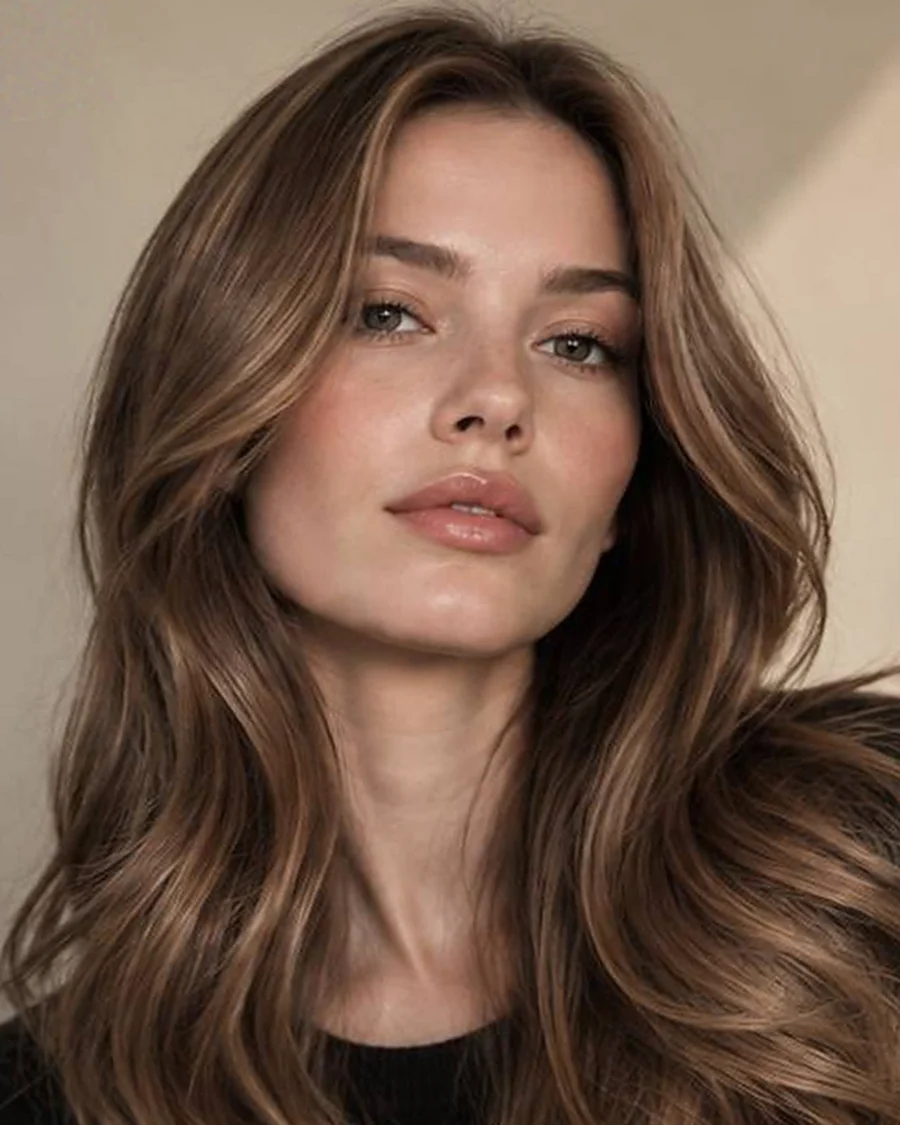
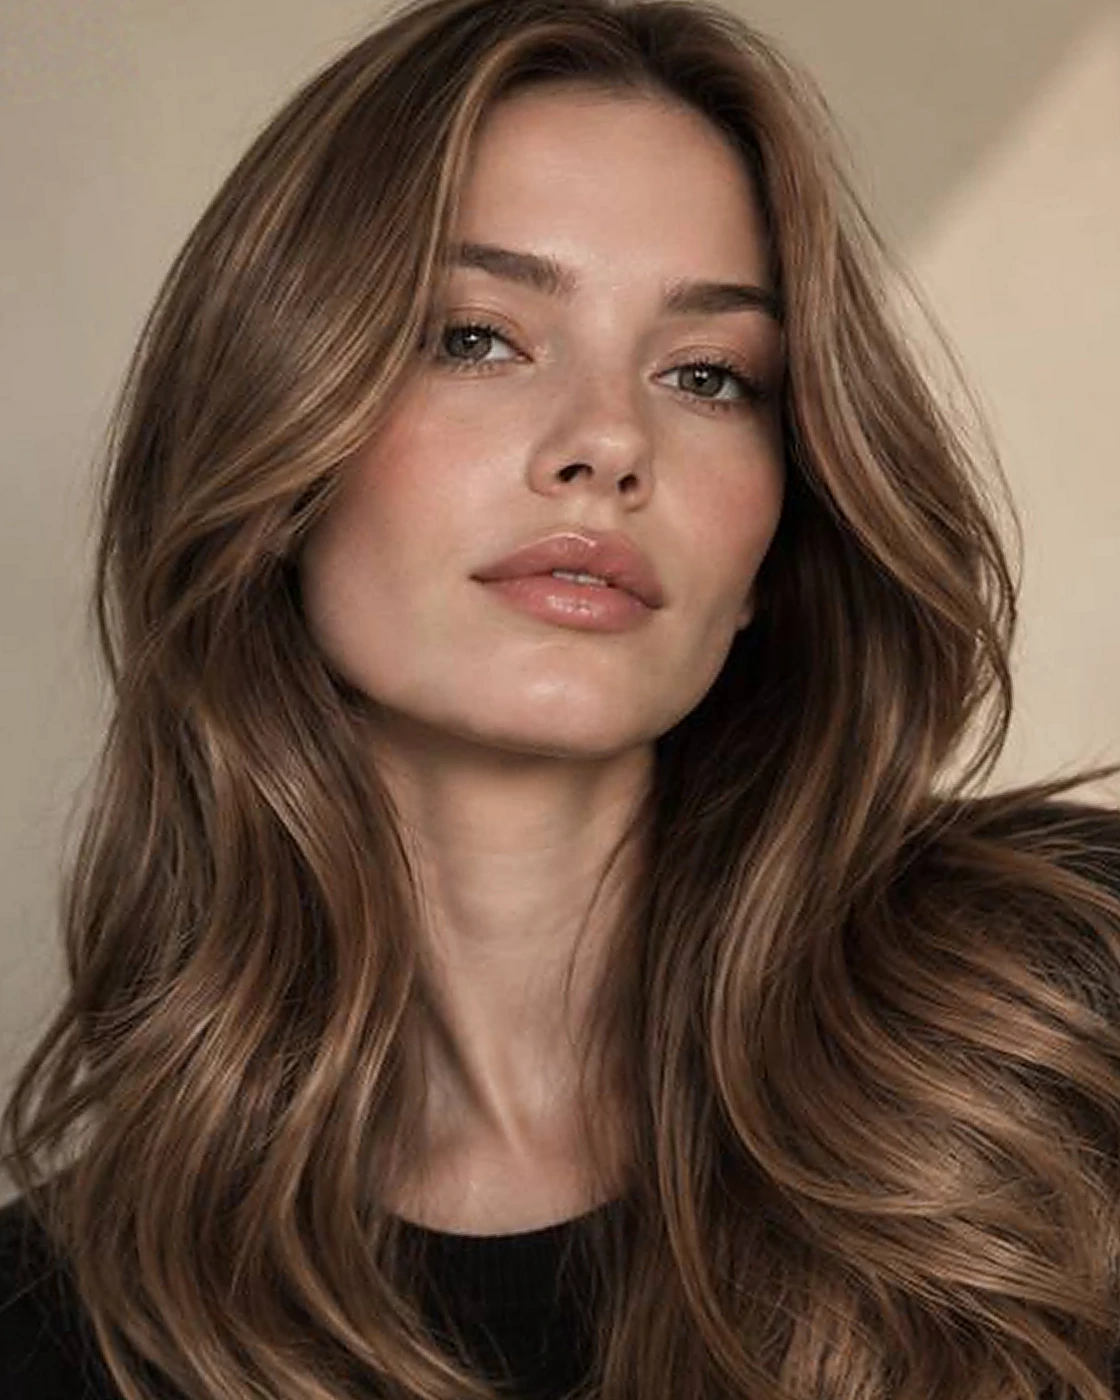
До/После: убрана красная заливка, сглажена протяжка, подняты кадры
Красное — это выделение. Протяжка ползунка начинала выделение текста,
а ::selection на сайте бордовый, и подсветка ложилась поверх кадров:
половина сравнения заливалась красным. Сцене добавлен user-select:none,
кадрам -webkit-user-drag:none, на pointerdown мыши — preventDefault,
иначе браузер ещё и тащит картинку.

Граница теперь догоняет указатель через quickTo (0.24 с, power3) и
ведётся дробным процентом: целый шаг — это 5–6 px на широкой сцене, и
граница шла заметными ступенями. Целое число осталось в самом range и в
подписи для скринридера. При reduced-motion и без GSAP — как раньше,
сразу на место.

Кадры пересобраны: 1120×1400 вместо 900×1125, качество 92 вместо 86.
Главное не в размере — «после» теперь пересэмплируется один раз, матрица
совмещения домножается сразу на окно кадрирования и на увеличение. Было
три прохода подряд, и кадр мылился. Отступ от границы поворота уменьшен
с 11 до 5 px, окно отыграло часть кадра.

Заодно поправлен участок для сверки экспозиции: он залезал на прядь, и
поправка раздувалась до 1.10 — правая половина выходила светлее левой.
Теперь участок проверяется на разброс перед тем, как по нему считать.

Claude-Session: https://claude.ai/code/session_018SN7TA6kw3BepFEu2UN1VE

diff --git a/js/main.js b/js/main.js
@@ -558,12 +558,24 @@
     if (!range || !clip || !handle) return;
     var stage = range.closest('.ba__stage');
 
-    function apply(v) {
-      clip.style.clipPath = 'inset(0 ' + (100 - v) + '% 0 0)';
-      handle.style.left = v + '%';
-      range.setAttribute('aria-valuetext', 'Показано ' + v + '% кадра «до»');
+    /* Рисуем дробным процентом: шаг в целый процент — это 5–6 px на широкой
+       сцене, и граница шла заметными ступенями. Целое число остаётся только
+       в самом range и в подписи для скринридера. */
+    function paint(v) {
+      clip.style.clipPath = 'inset(0 ' + (100 - v).toFixed(2) + '% 0 0)';
+      handle.style.left = v.toFixed(2) + '%';
     }
-    apply(+range.value);
+    var view = { v: +range.value };
+    var ease = null;
+    if (hasGSAP && !reduced.matches) {
+      ease = gsap.quickTo(view, 'v', { duration: 0.24, ease: 'power3', onUpdate: function () { paint(view.v); } });
+    }
+    function apply(v, instant) {
+      range.setAttribute('aria-valuetext', 'Показано ' + Math.round(v) + '% кадра «до»');
+      if (ease && !instant) { ease(v); return; }
+      view.v = v; paint(v);
+    }
+    apply(+range.value, true);
     range.addEventListener('input', function () { apply(+this.value); });
     range.addEventListener('focus', function () { stage && stage.classList.add('is-focus'); });
     range.addEventListener('blur', function () { stage && stage.classList.remove('is-focus'); });
@@ -573,8 +585,8 @@
 
     function fromPointer(e) {
       var r = stage.getBoundingClientRect();
-      var v = Math.round(Math.min(100, Math.max(0, ((e.clientX - r.left) / r.width) * 100)));
-      range.value = v;
+      var v = Math.min(100, Math.max(0, ((e.clientX - r.left) / r.width) * 100));
+      range.value = Math.round(v);
       apply(v);
     }
 
@@ -583,6 +595,7 @@
     stage.addEventListener('pointerdown', function (e) {
       pid = e.pointerId; sx = e.clientX; sy = e.clientY;
       if (e.pointerType === 'mouse') {
+        e.preventDefault();          /* иначе браузер начинает тащить картинку */
         dragging = true; armed = true;
         stage.setPointerCapture(pid);
         fromPointer(e);

diff --git a/css/main.css b/css/main.css
@@ -774,7 +774,11 @@ body.is-locked .hdr.is-solid{
   position:relative; isolation:isolate; aspect-ratio:4/5; overflow:hidden; background:var(--choco);
   touch-action:pan-y; cursor:ew-resize;
   width:min(100%, 560px); margin-inline:auto;
+  /* Без этого протяжка ползунка выделяет кадры, а ::selection у нас
+     бордовый — половина сравнения заливалась красным. */
+  user-select:none; -webkit-user-select:none;
 }
+.ba__img{ -webkit-user-drag:none; user-drag:none; }
 .ba__img{ position:absolute; inset:0; width:100%; height:100%; object-fit:cover;
   filter:grayscale(.2) contrast(1.05) sepia(.08); opacity:0; transition:opacity .7s var(--e-out); }
 .ba__img.is-loaded{ opacity:1; }

diff --git a/design-system/elane/MASTER.md b/design-system/elane/MASTER.md
@@ -192,6 +192,25 @@
 окрашивания, руки у массажа головы, лицо у макияжа. Снимок, обрезанный
 «по центру», в половине случаев оставлял в карточке пустой интерьер.
 
+**Перетаскивание по картинкам выделяет их, а `::selection` у нас бордовый.**
+Протяжка ползунка «до/после» заливала половину сравнения красным: браузер
+начинал выделение, и подсветка ложилась поверх кадров. Лечится `user-select:
+none` на сцене плюс `-webkit-user-drag: none` на кадрах и `preventDefault`
+на `pointerdown` мыши — иначе браузер ещё и тащит картинку. Правило общее:
+любой элемент, который таскают мышью поверх контента, обязан отключать
+выделение, иначе акцентный цвет `::selection` вылезет поверх него.
+
+**Граница сравнения идёт через сглаживание, а не прыжком.** Значение
+ползунка ведём дробным: шаг в целый процент — это 5–6 px на широкой сцене,
+и граница шла заметными ступенями. Нарисованное положение догоняет
+указатель через `gsap.quickTo` (0.24 с, `power3`), целое число остаётся
+только в самом `input[type=range]` и в подписи для скринридера. CSS-переход
+на `clip-path` при этом не ставим — он дрался бы с твином.
+
+**Кадр пересэмплируем один раз.** Матрица совмещения домножается сразу на
+окно кадрирования и на увеличение до выходного размера. Раньше «после»
+проходил три прохода (аффинное → обрезка → масштаб) и заметно мылился.
+
 **Пара «до/после» совмещается по зрачкам, и только по ним.** Ползунок
 показывает правду лишь когда лицо в обоих кадрах стоит на одном месте:
 иначе при протяжке едет не причёска, а вся голова. Корреляция по яркости

diff --git a/README.md b/README.md
@@ -168,7 +168,7 @@ Tone of voice: короткие утверждения, цифры вместо 
 
 ### 5. До / После
 
-`assets/ba-before.webp` и `assets/ba-after.webp` — ваша пара, 900×1125 (4:5).
+`assets/ba-before.webp` и `assets/ba-after.webp` — ваша пара, 1120×1400 (4:5).
 Сцена сравнения тоже 4:5 и ограничена по ширине 560 px, стоит по центру:
 кадры портретные, во всю ширину секции такая сцена вымахала бы на полтора
 экрана. Пропорции сцены и файлов совпадают, поэтому `object-fit:cover`
@@ -184,6 +184,10 @@ Tone of voice: короткие утверждения, цифры вместо 
 Экспозиция «после» выровнена по стене: она в обоих кадрах одна и та же,
 а без поправки кадр при протяжке «моргал» яркостью. Впечатанные подписи
 «ДО» и «ПОСЛЕ» сняты — у сайта свои, в углах сцены.
+
+Файлы 1120×1400 — предел того, что есть в исходниках (они были около
+570 px по ширине). Больше смысла не имеет: пикселей прибавится, деталей нет.
+Если нужна настоящая резкость на больших экранах, пришлите оригиналы крупнее.
 
 Если будете менять пару, снимайте с одной точки, одним светом и просите
 гостя держать голову одинаково. Чем точнее исходники, тем меньше придётся
